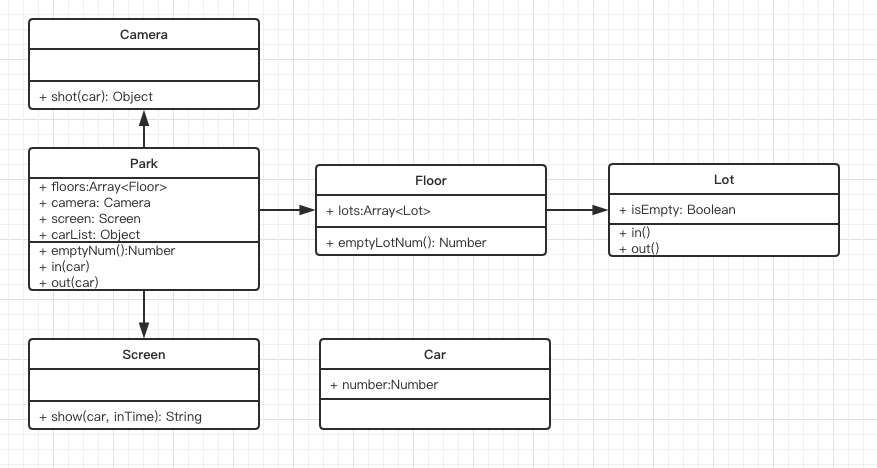
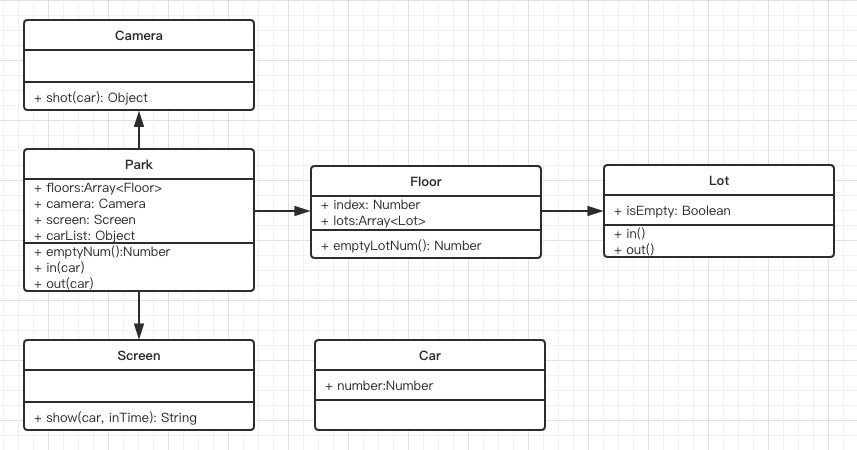
.

diff --git a/demo/design-pattern/src/design/car/2.js b/demo/design-pattern/src/design/car/2.js
@@ -1,0 +1,126 @@
+// 车
+export class Car {
+    constructor(number) {
+        this.number = number
+    }
+}
+
+class Camera{
+    shot(car) {
+        return {
+            num: car.number,
+            inTime: Date.now()
+        }
+    }
+}
+
+class Screen {
+    show(car, inTime) {
+        console.log(`车牌号：${car.number}`)
+        console.log(`停留时间：${Date.now() - inTime}`)
+    }
+}
+
+
+// 停车场
+export class Park {
+    constructor(floors) {
+        this.floors = floors || []
+        this.camera = new Camera()
+        this.screen = new Screen()
+        this.carList = {} // 存储摄像头拍摄返回的车辆信息
+    } 
+    in (car, floorIndex) {
+        floorIndex = floorIndex - 1 || 0
+        // 通过摄像头获取信息
+        const info = this.camera.shot(car)
+        // 停到某个车位
+        const i = parseInt(Math.random() * 100 % 100)
+        const lot = this.floors[floorIndex].lots[i]
+        lot.in();
+        info.lot = lot;
+        this.carList[car.number] = info
+    }
+    out(car) {
+        // 获取信息
+        const info = this.carList[car.number]
+        // 将停车位清空
+        const lot = info.lot
+        lot.out()
+        // 显示时间
+        this.screen.show(car, info.inTime)
+
+        // 清空记录
+        delete this.carList[car.number]
+    }
+    emptyNum() {
+        return this.floors.map(floor => `${floor.index}层还有${floor.emptyLotNum()}个空车位。`).join('\n');
+    }
+}
+
+// 层
+export class Floor {
+    constructor(index, lots) {
+        this.index = index
+        this.lots = lots || []
+    }
+
+    emptyLotNum() {
+        let num = 0;
+        this.lots.forEach(lot => {
+            if(lot.isEmpty) {
+                num = num + 1
+            }
+        })
+        return num
+    }
+}
+
+// 车位
+export class Lot {
+    constructor() {
+        this.isEmpty = true
+    } 
+    in () {
+        this.isEmpty = false
+    }
+    out() {
+        this.isEmpty = true
+    }
+}
+
+
+
+// ----------------------测试----------------------
+// 初始化停车场
+// const floors = []
+// for(let i = 0; i < 3; i++) {
+//     const lots = []
+//     for(let j = 0; j < 100; j++) {
+//         lots[i] = new Lot()
+//     }
+//     floors[i] = new Floor(i+1, lots)
+// }
+
+// const park = new Park(floors)
+
+// // 初始化车辆
+// const car1 = new Car(100)
+// const car2 = new Car(200)
+// const car3 = new Car(300)
+
+// console.log('第一辆车进入')
+// console.log(park.emptyNum())
+// park.in(car1)
+
+// console.log('第二辆车进入')
+// console.log(park.emptyNum())
+// park.in(car2)
+
+// console.log('第一辆车离开')
+// park.out(car1)
+
+// console.log('第二辆车离开')
+// park.out(car2)
+
+

diff --git a/demo/design-pattern/src/index.js b/demo/design-pattern/src/index.js
@@ -48,11 +48,55 @@
 //     console.log('err', err)
 // })
 
-import { FastCar, SpecialCar, Trip } from './design/car/index'
+// import { FastCar, SpecialCar, Trip } from './design/car/1'
 
-const fastCar = new FastCar('seek', '浙A123456')
-const specialCar = new SpecialCar('viiv', '浙A111222')
+// const fastCar = new FastCar('seek', '浙A123456')
+// const specialCar = new SpecialCar('viiv', '浙A111222')
 
-const trip = new Trip(specialCar)
-trip.start()
-trip.end(5)
+// const trip = new Trip(specialCar)
+// trip.start()
+// trip.end(5)
+
+import { Park, Floor, Lot, Car } from './design/car/2'
+
+// ----------------------测试----------------------
+// 初始化停车场
+const floors = []
+for(let i = 0; i < 3; i++) {
+    const lots = []
+    for(let j = 0; j < 100; j++) {
+        lots[j] = new Lot()
+    }
+    floors[i] = new Floor(i+1, lots)
+}
+
+const park = new Park(floors)
+console.log(park)
+
+// 初始化车辆
+const car1 = new Car(100)
+const car2 = new Car(89)
+const car3 = new Car(12)
+
+console.log('第一辆车进入')
+console.log(park.emptyNum())
+park.in(car1, 2)
+
+console.log('第二辆车进入')
+console.log(park.emptyNum())
+park.in(car2, 1)
+
+
+console.log('第一辆车离开')
+park.out(car1)
+
+console.log('第二辆车离开')
+park.out(car2)
+
+
+console.log('第三辆车进入')
+console.log(park.emptyNum())
+park.in(car3, 1)
+
+console.log('第三辆车离开')
+park.out(car3)

diff --git a/blog/jsBase/设计模式/面试题.md b/blog/jsBase/设计模式/面试题.md
@@ -69,6 +69,8 @@ trip.end(5)
 - 车辆进入时，摄像头可识别车牌号和时间
 - 车辆出来时，出口显示器显示车牌号和停车时长
 
+![类图](https://github.com/viivLgr/viivBlog/blob/master/images/uml-4.png)
+
 
 
 
